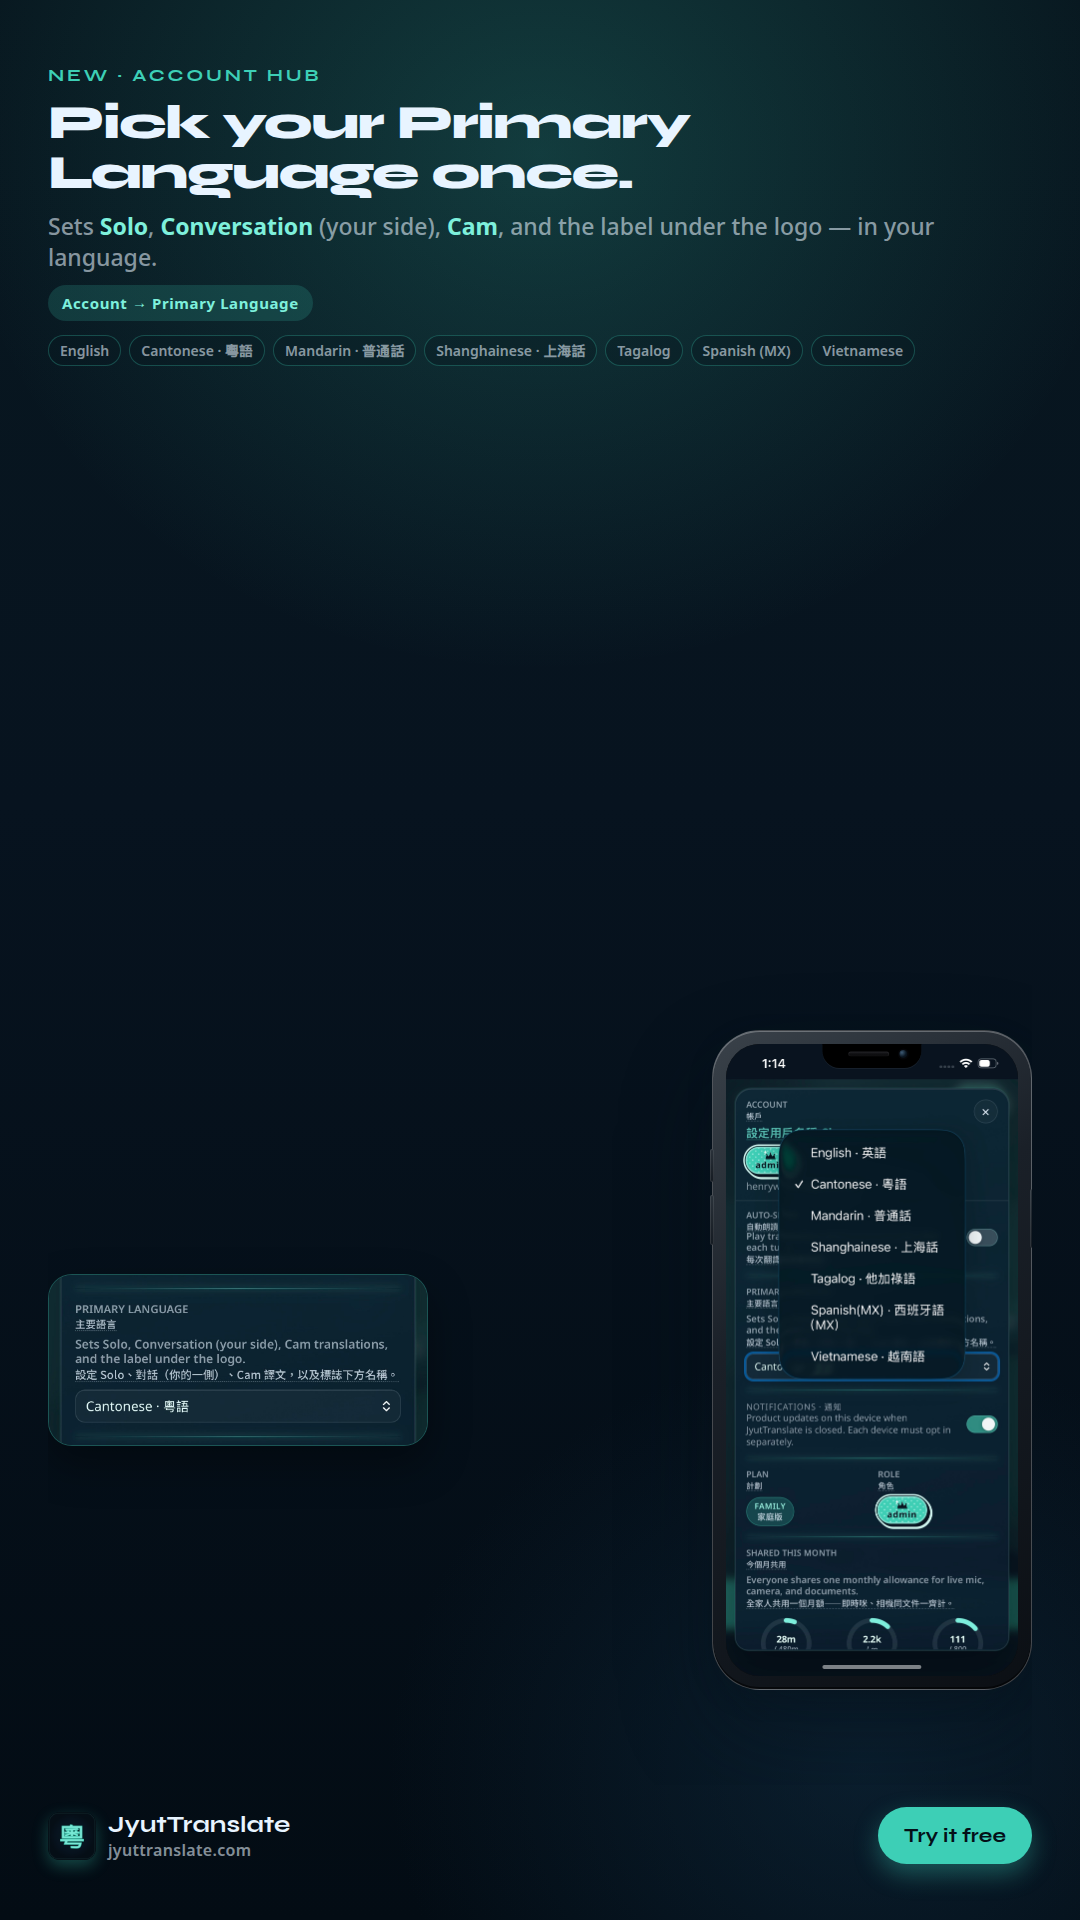
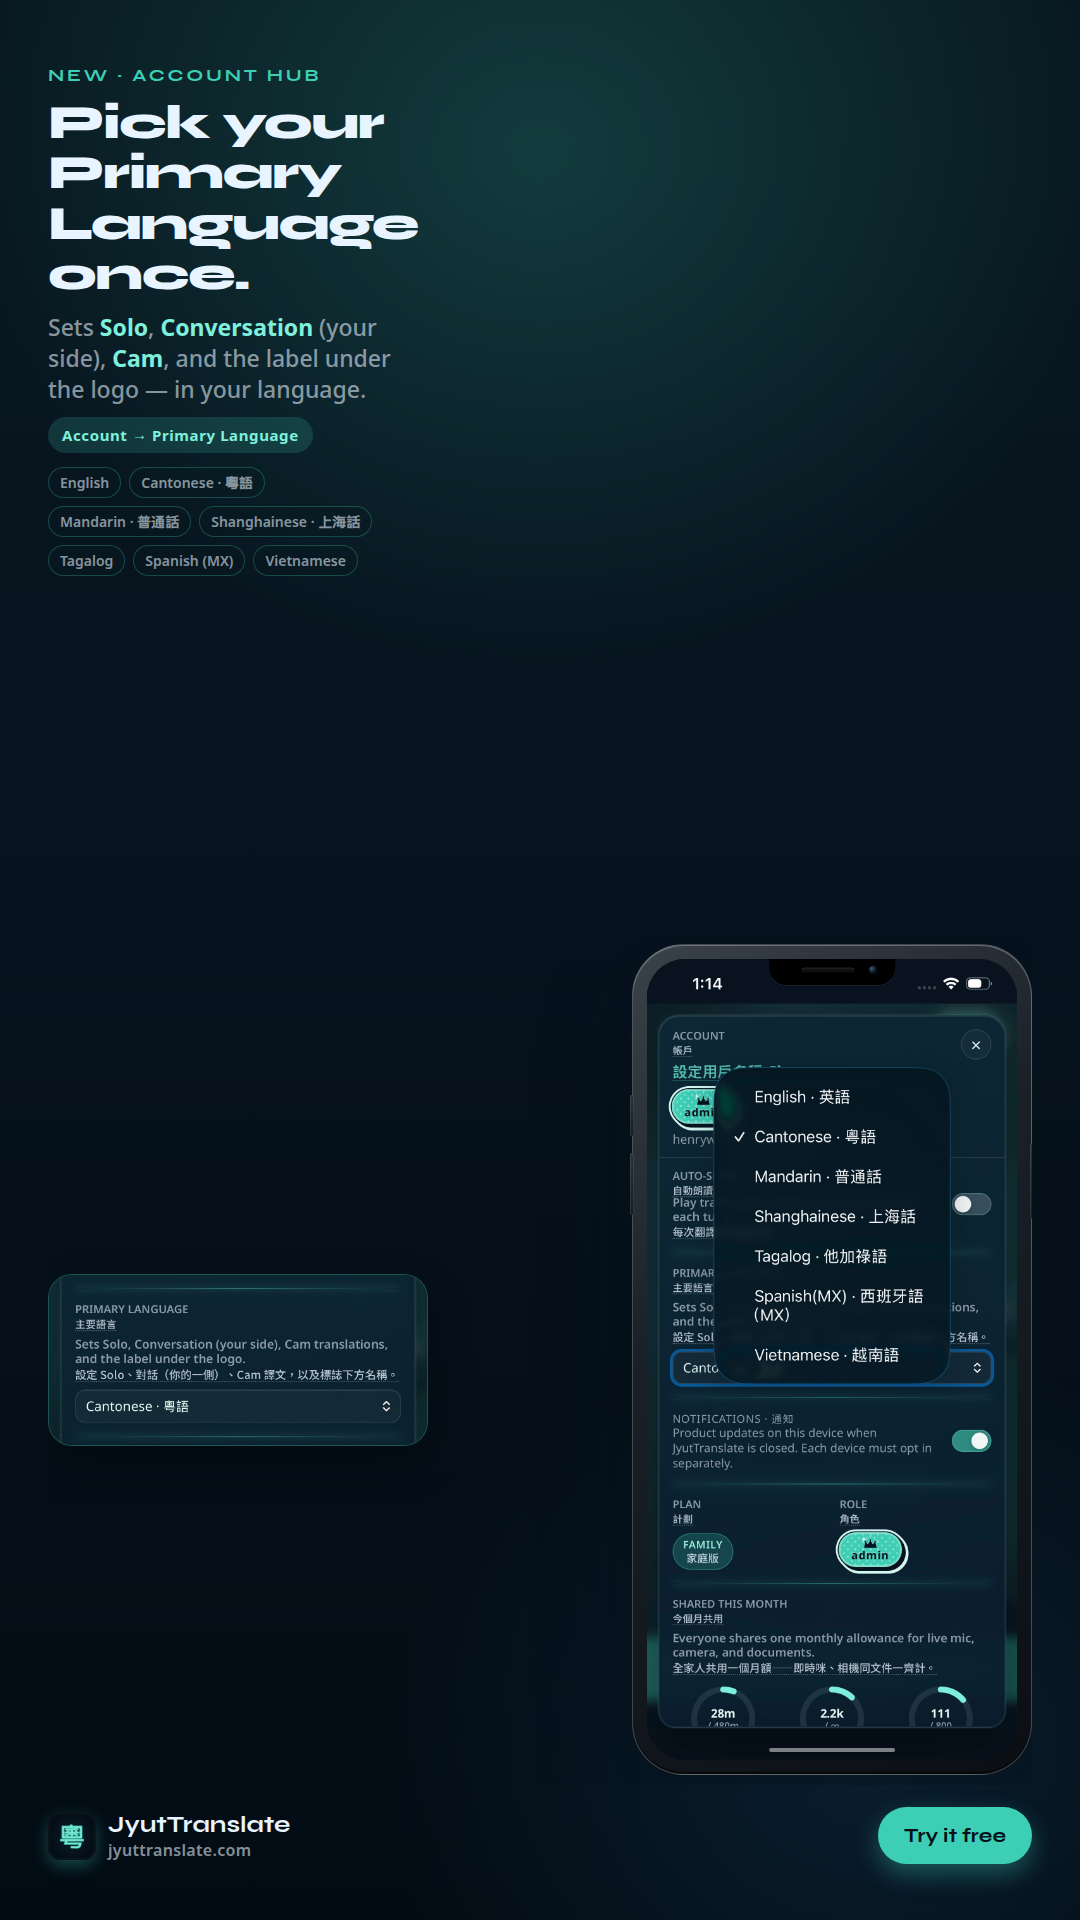
Primary Language locale — IG carousel + Stories (#421)
* Add Primary Language IG carousel + Stories (HTML sources)

Harbor night instructional frames with iPhone 13 Pro chrome; hub slide
combines Account picker crop + open menu; Solo/Convo/Cam locale beats.

* Render Primary Language IG post + Stories PNGs and caption

Harbor night carousel (hub 1+2 combined, Solo Yue, Convo ES-MX, Cam VI)
plus matching Stories; caption matches real locale UI strings (5 hashtags).

* Fix Primary Language IG phones covering headline copy

Shrink device mocks to fit under reserved copy blocks, raise copy
z-index, and shorten long subs so Solo/Convo/Cam/Story text stays clear.

* Enlarge Primary Language IG phone mockups to max clear size

Feed phones ~450px, Stories ~680px, hub post 500px — binary-searched
to fill stage height with ≥20px copy clearance and correct aspect.

---------

diff --git a/docs/social/ig-posts/primary-lang.css b/docs/social/ig-posts/primary-lang.css
@@ -204,33 +204,32 @@
 }
 
 /*
- * Fixed phone widths sized so height always fits under copy on 1080×1350 / 1920.
- * (Do not rely on cqh — invalid calc falls back to lang-launch 420px and covers text.)
- * 300px wide ≈ 672px tall with bezel; stage has ~750–900px free on post slides.
+ * Max phone widths that still clear copy (binary-searched, ≥20px gap).
+ * Post stage ≈959px → ~450px wide. Story stage ≈1486px → ~680px wide.
  */
 .primary-lang .phone {
-  --phone-bezel: 11px;
-  --phone-radius: 42px;
-  --phone-screen-radius: 30px;
+  --phone-bezel: 13px;
+  --phone-radius: 50px;
+  --phone-screen-radius: 36px;
   flex-shrink: 0;
-  width: 280px !important;
+  width: 420px !important;
   height: auto;
   max-height: 100%;
   box-sizing: border-box;
 }
 
 .primary-lang .phone--lg {
-  --phone-bezel: 12px;
-  --phone-radius: 46px;
-  --phone-screen-radius: 33px;
-  width: 300px !important;
+  --phone-bezel: 14px;
+  --phone-radius: 54px;
+  --phone-screen-radius: 39px;
+  width: 450px !important;
 }
 
 .primary-lang--story .phone--story {
-  --phone-bezel: 14px;
-  --phone-radius: 52px;
-  --phone-screen-radius: 37px;
-  width: 420px !important;
+  --phone-bezel: 16px;
+  --phone-radius: 60px;
+  --phone-screen-radius: 44px;
+  width: 680px !important;
 }
 
 .primary-lang__langs {
@@ -301,18 +300,28 @@
 }
 
 .primary-lang--story .phone--story-hub {
-  --phone-bezel: 13px;
-  --phone-radius: 48px;
-  --phone-screen-radius: 34px;
-  width: 360px !important;
+  /* Hub-row height caps phone; keep native aspect (~400px @ ~850px tall). */
+  --phone-bezel: 14px;
+  --phone-radius: 52px;
+  --phone-screen-radius: 38px;
+  width: 400px !important;
   height: auto;
   max-height: 100%;
 }
 
-/* Hub post: keep left copy clear of the phone */
+/* Hub post: max width with ≥20px gap beside left copy */
 .primary-lang__stage--hub .phone {
-  width: 320px !important;
+  width: 500px !important;
   flex-shrink: 0;
   align-self: center;
   max-height: 100%;
+}
+
+/* Story hub must not inherit the post hub 500px (would squash aspect). */
+.primary-lang--story .primary-lang__stage--hub .phone {
+  width: 400px !important;
+}
+
+.primary-lang__stage--hub .primary-lang__hub-copy {
+  max-width: 360px;
 }
